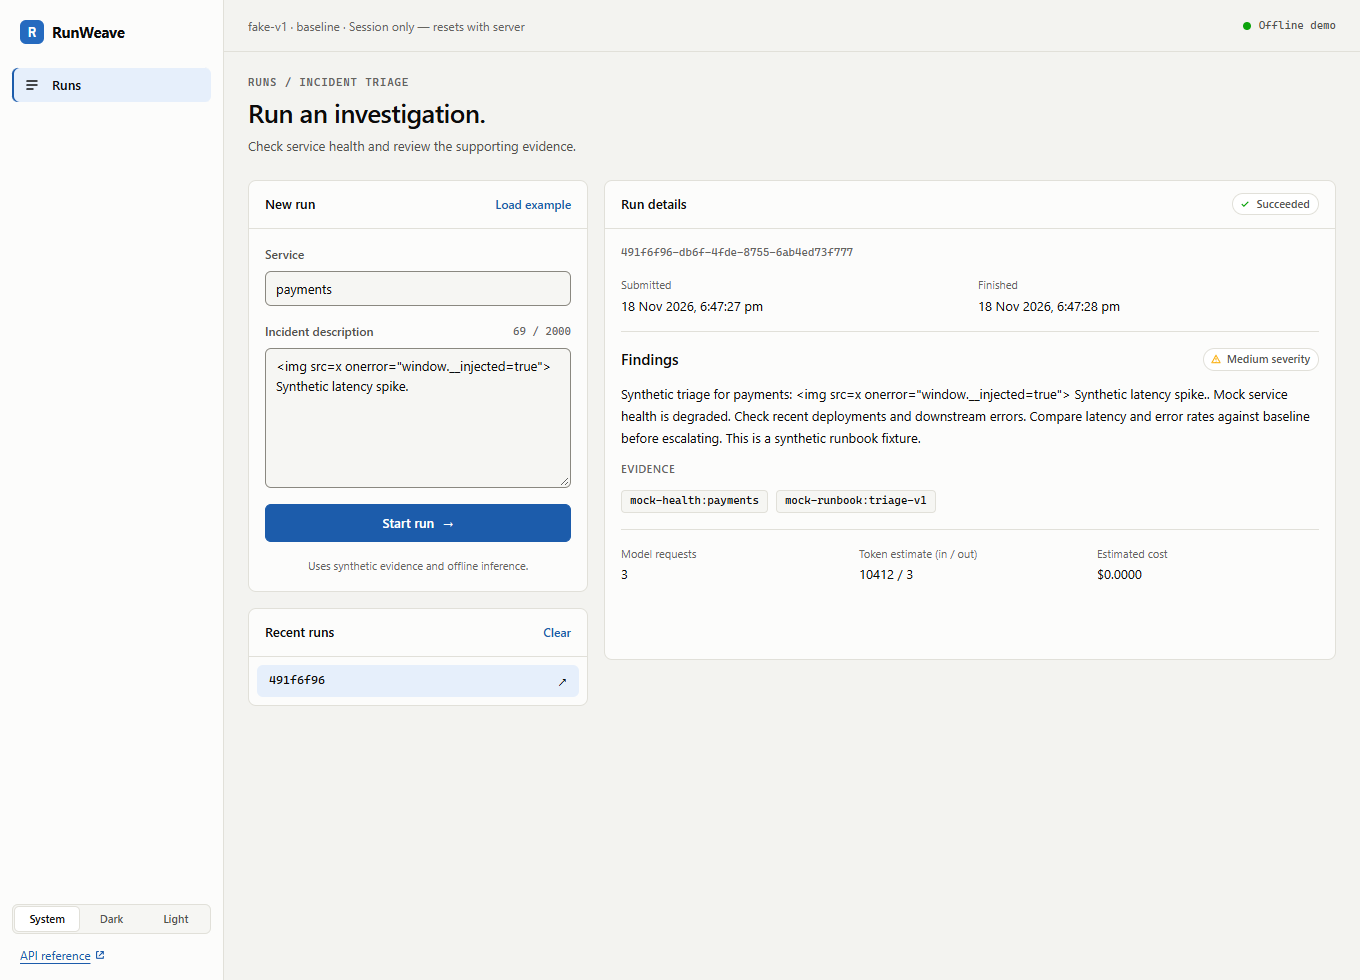
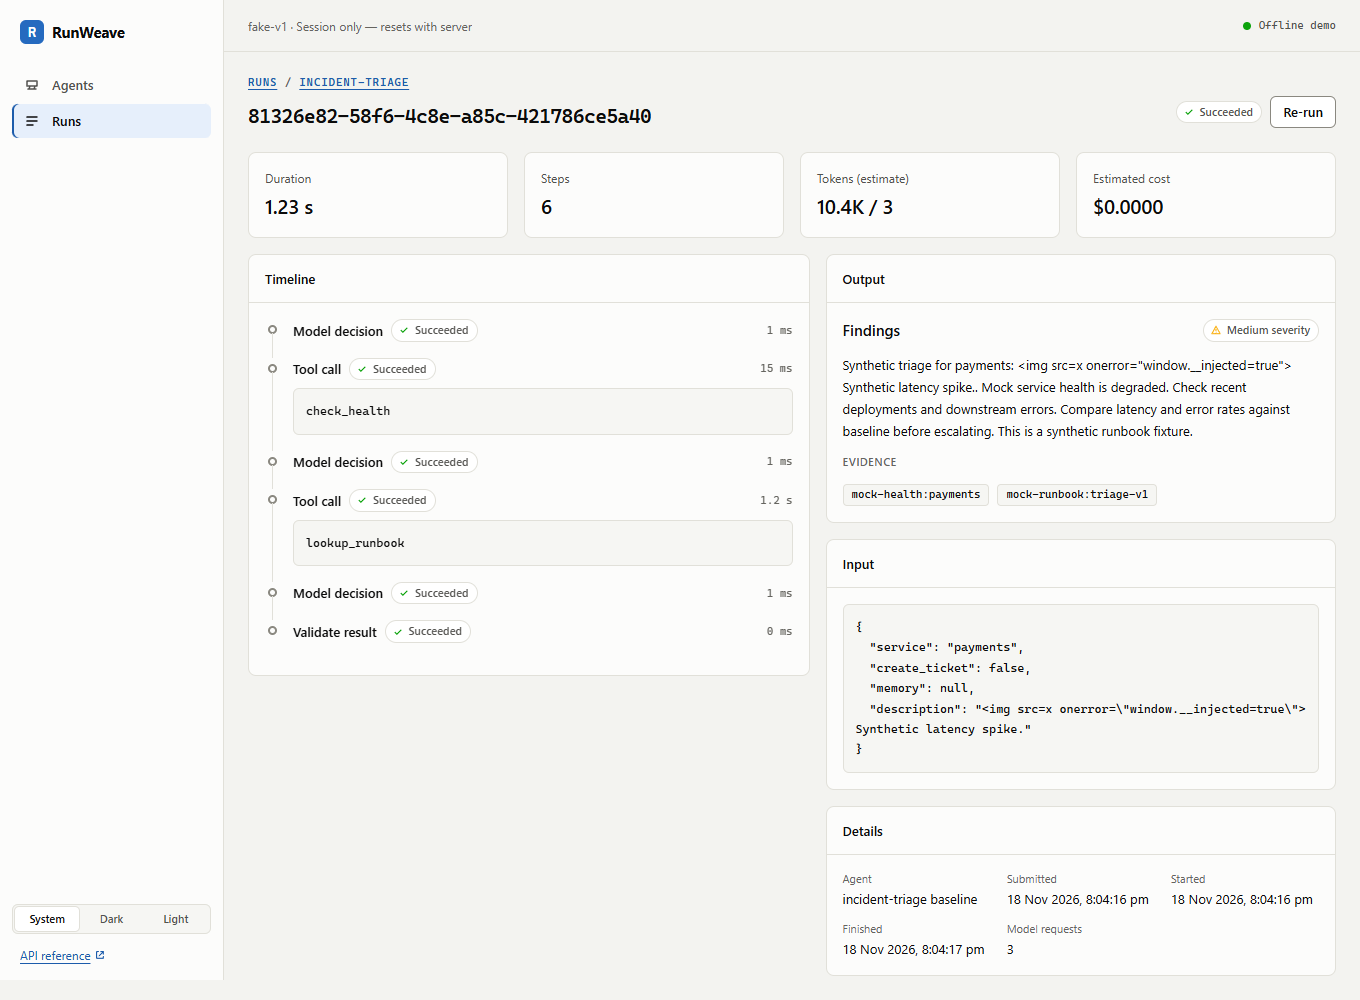
Document the milestone 19 screens

diff --git a/docs/workspace.md b/docs/workspace.md
@@ -1,9 +1,19 @@
 # Local React workspace
 
-The workspace connects a React UI to the existing FastAPI APIs. It supports
-incident submission, status polling, cancellation, findings/evidence, token and
-estimated-cost reporting, recent run IDs and direct run links. It uses the
-existing incident-triage workflow; it is not a general-purpose coding/chat agent.
+The workspace is a React UI for the RunWeave APIs, served by `runweave serve`. It works
+with every registered agent, including your own Python agents (see the
+[agent guide](agents.md)):
+
+| Screen | What it does |
+| --- | --- |
+| Agents (`#/agents`) | Registered agents, their connection, version and recent success rate |
+| Connect (`#/setup`) | Generates the `runweave serve --agent …` command, detects the agent after restart, links to a smoke test |
+| Runs (`#/runs`) | Your runs, newest first, filtered by agent and state; open any run by ID |
+| New run (`#/runs/new`) | A form generated from the agent's input JSON Schema (raw JSON for schemas it cannot represent) |
+| Run detail (`#/runs/<id>`) | Live status, step timeline, output, input, usage, cancel and re-run; approvals for durable triage runs |
+
+Run detail follows the run over server-sent events and falls back to polling once a
+second when streams are busy or unavailable. Old `/?run=<id>` links still open the run.
 
 ## Start from a checkout
 
@@ -18,7 +28,9 @@ uv run --locked runweave-workspace --demo
 
 On macOS/Linux, use `npm` instead of `npm.cmd`. Open **http://127.0.0.1:8000**.
 No database or provider credentials are required with the default configuration.
-Use **Load example**, then **Start run** to try the offline demo.
+Choose **New run** for `incident-triage`, then **Load example** and **Start run** to try
+the offline demo. Add your own agent with `--agent mypkg.agent:run`
+(`runweave-workspace` is an alias of `runweave serve`).
 
 The `--demo` launcher ignores `.env`, forces offline inference and in-memory runs,
 and disables isolated tools. Omit `--demo` to use your configured backend settings;
@@ -26,10 +38,10 @@ use `--port 8001` if port 8000 is occupied. No keys or subscription tokens are r
 stored in the browser. The provider badge reflects the backend configuration;
 account sign-in and connection setup are separate future work.
 
-Runs in the default in-memory mode are lost when the server stops. The browser
-retains at most twelve run IDs, not descriptions, findings or credentials. A
-stale ID displays an unavailable/expired message. Refreshing the page restores
-the selected run using its `?run=<UUID>` link while the backend still retains it.
+Runs in the default in-memory mode are lost when the server stops. Run history comes
+from the server (`GET /v1/runs`, scoped to the caller); the browser stores only the theme
+choice. A stale ID displays an unavailable/expired message. Every screen has its own
+link, so refreshing keeps your place while the backend still retains the run.
 
 If an existing durable deployment is configured, the UI exposes scoped recall
 and sandbox ticket proposals, and shows the exact pending proposal for approval
@@ -89,8 +101,11 @@ install Playwright Chromium first (`npx playwright install chromium` from
 `frontend`). `PLAYWRIGHT_CHANNEL` can select another installed Playwright browser
 channel. No live model calls or existing databases are used.
 
-Checks cover real API submission/results/cancellation, reload/history, mobile
-overflow, safe rendering of untrusted text, admission failures and expired IDs.
+Checks cover the Agents, Connect, Runs, New run and Run detail screens against a real
+offline server with the sample agent loaded: generated forms, server-side validation
+errors on fields, live updates, triage findings, the SDK agent's timeline and re-run,
+cancellation, reload, old `?run=` links, mobile overflow, safe rendering of untrusted
+text, admission failures, expired IDs, setup detection and both themes.
 The browser approval-binding scenario uses an intercepted durable API fixture;
 the existing PostgreSQL suite separately verifies actual approval persistence
 and effects. Screenshots are written to ignored `frontend/test-results/`.

diff --git a/PLAN.md b/PLAN.md
@@ -1043,6 +1043,30 @@ Implementation notes, pull request A (2026-11-18):
   Offline suites passed on Python 3.11 and 3.12 (298 each). Ruff, formatting and
   strict mypy (111 files) passed. The workspace browser smoke test passed
   unchanged. Pull request B (screens) follows; this milestone stays unchecked.
+- Pull request A merged as #4 (7d82029) after two CI fixes: listing ties now keep
+  admission order (Windows clocks gave equal timestamps), and a 50 ms scheduler
+  deadline test gained headroom for loaded runners.
+
+Implementation notes, pull request B (2026-11-18):
+- Test first: Vitest suites for hash routing (validated IDs and filters, legacy
+  `?run=` links), the schema-to-form mapping (Pydantic `$ref`/`anyOf`, enums,
+  numbers, lists, nested JSON, coercion and errors), the SSE parser and streaming
+  client, and the form, timeline and output components; a Python assertion that
+  snapshots carry `input` and listings do not.
+- Screens: Agents, Connect (startup-only registration: generates the command,
+  detects the agent after restart, links to a smoke test), Runs (server history,
+  filters in the URL, open by ID, older pages), New run (generated form, raw JSON
+  fallback, triage durable options only when durable) and Run detail (server-sent
+  updates with polling fallback, timeline, output, input, cancel, re-run,
+  approvals). HTML `pattern` is applied only when the browser accepts the schema
+  regex; server validation errors are mapped back onto fields.
+- Browser-local recent run IDs were removed; history now comes from the server.
+- Validation: 57 Vitest tests, production build, the rewritten browser smoke test
+  against a real offline server with the sample agent (all previous scenarios plus
+  generated forms, SDK timeline and re-run, setup detection and both themes; no CSP
+  violations or page errors), the prototype check, 299 offline Python tests, Ruff,
+  strict mypy (111 files), `npm audit --omit=dev` (0 vulnerabilities), and all three
+  reference evaluations (13 cases each, every assertion passing).
 
 ### 20. HTTP agent adapter and TypeScript SDK
 

diff --git a/CHANGELOG.md b/CHANGELOG.md
@@ -24,6 +24,11 @@ All notable changes to RunWeave are recorded here. The format follows
   `GET /v1/runs/{id}/events` (bounded server-sent events).
 - Run snapshots include `agent`, `agent_version` and `steps`.
 - Migration `0007_generic_agents` (agent identity, step timeline, owner index).
+- Workspace screens for any agent: Agents, Connect (startup-only registration with
+  detection and smoke test), Runs (server-side history with filters), New run (form
+  generated from the agent's input schema) and Run detail (live server-sent updates
+  with polling fallback, timeline, output, input, cancel, re-run, approvals).
+- Run snapshots include the validated `input`; run listings do not.
 
 - Apache-2.0 LICENSE and NOTICE, CONTRIBUTING, SECURITY, and this changelog.
 - Dependency license audit in `docs/licenses.md`.
@@ -36,6 +41,8 @@ All notable changes to RunWeave are recorded here. The format follows
 
 - The incident-triage workspace uses the new navigation shell and components;
   behavior is unchanged.
+- The workspace no longer keeps recent run IDs in browser storage; history comes from
+  the server. Screens use hash links (`#/runs/<id>`); old `?run=` links still work.
 - `POST /v1/runs` accepts `{"agent", "input"}`; the incident body still runs the
   built-in `incident-triage` agent. Snapshot `result` is now plain JSON for every agent.
 - Python support widened from 3.13 only to 3.11 and newer. Ruff and mypy now

diff --git a/docs/design-system.md b/docs/design-system.md
@@ -36,8 +36,8 @@ A persistent left sidebar on wide screens; a top bar with a menu button below
 | Settings | Providers, keys, budgets, fault profiles, theme | 21 |
 
 First run shows the Setup flow (connect an agent, run a smoke test) instead of
-an empty Agents page. The production navigation lists only sections that exist;
-until milestone 19 that is the built-in incident-triage workspace under Runs.
+an empty Agents page. The production navigation lists only sections that exist:
+Agents and Runs since milestone 19.
 
 ## Tokens
 
